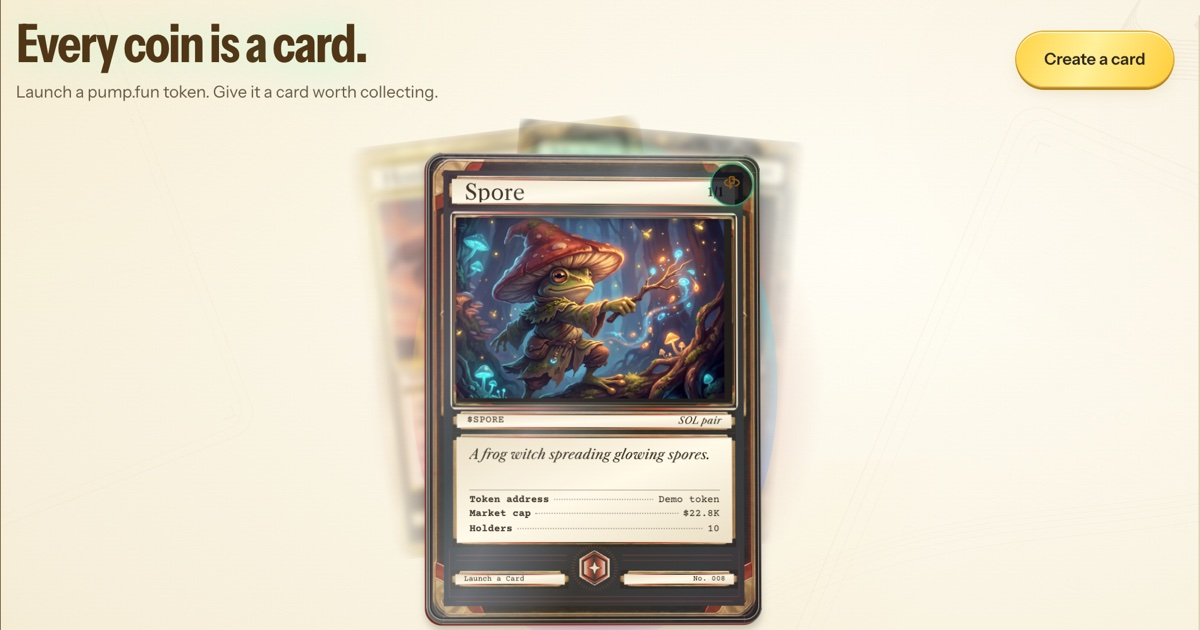
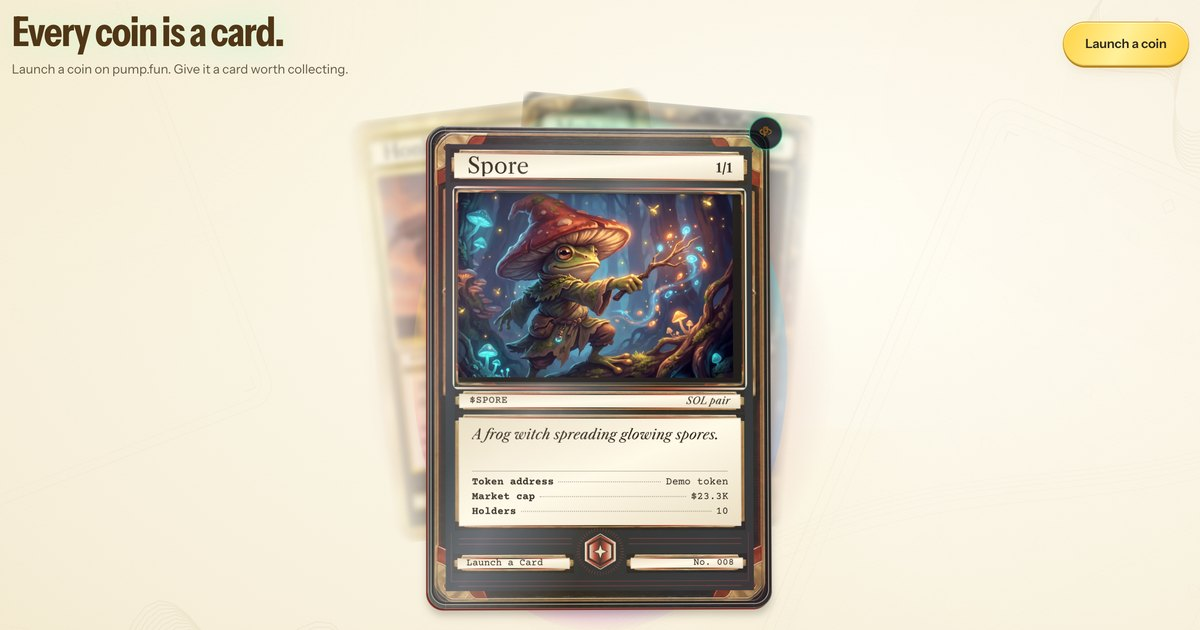
Fix demo/coin copy, defer neighbour and back plates, recapture OG calm
- coin details: 'No on-chain address in the demo.'
- creator print lore fallback matches CardPrint ('in the collection')
- portfolio: visible copy says coin (tab, empty states, meta)
- PERF-1: staged and lite card plates wait for touch/turn or load+idle; phones take the 320w copy
- generated backs wait until they can be seen (touch, turn, back side, or idle+on screen when not calm); phones take back-320
- OG image recaptured from the home hero with calm motion

diff --git a/app/src/components/carddex/GeneratedCardArt.tsx b/app/src/components/carddex/GeneratedCardArt.tsx
@@ -36,36 +36,77 @@ export function GeneratedCardFinish({ cardTemplate }: { cardTemplate?: string })
   return <div className="cdx-generated-finish" aria-hidden><i className="cdx-generated-finish__spectrum" /><i className="cdx-generated-finish__glint" /></div>;
 }
 
+/** Phones (the site's 767px breakpoint) take the 320px copy of a hidden or deferred plate, whatever their pixel ratio. */
+export function phoneCopy() {
+  return typeof window !== "undefined" && typeof window.matchMedia === "function" && window.matchMedia("(max-width: 767px)").matches;
+}
+
+/**
+ * Wait to fetch a plate the visitor cannot see yet (PERF-1). It loads on the first touch, key or focus on its card,
+ * when the card starts turning or shows its back, or (when `idle` allows) once the page has loaded and gone idle
+ * with the card on screen. Before then the img is not rendered at all, so nothing is queued.
+ */
+export function useDeferredPlate(ref: RefObject<HTMLElement | null>, start: boolean, idle: () => boolean) {
+  const [wanted, setWanted] = useState(start);
+  useEffect(() => {
+    if (wanted) return;
+    const want = () => setWanted(true);
+    const scene = ref.current?.closest<HTMLElement>(".mdx-card3d") ?? null;
+    const intent = ["pointerdown", "keydown", "focusin"] as const;
+    for (const t of intent) scene?.addEventListener(t, want, { once: true, passive: true });
+    const turned = () => {
+      const state = scene?.dataset.state ?? "";
+      if (scene?.dataset.side === "back" || /\b(turning|dragging|held)\b/.test(state)) want();
+    };
+    const watch = scene ? new MutationObserver(turned) : null;
+    watch?.observe(scene!, { attributes: true, attributeFilter: ["data-side", "data-state"] });
+    turned();
+    const ric = typeof window.requestIdleCallback === "function";
+    let handle: number | undefined;
+    // Both must hold, in either order: the page has gone idle and the card is on screen.
+    let seen = !scene;
+    let rested = false;
+    const check = () => { if (seen && rested && idle()) want(); };
+    const view = scene && typeof IntersectionObserver === "function" ? new IntersectionObserver((rows) => { seen = rows.some((r) => r.isIntersecting); check(); }) : null;
+    if (view && scene) view.observe(scene); else seen = true;
+    const go = () => {
+      const fire = () => { rested = true; check(); };
+      handle = ric ? window.requestIdleCallback(fire, { timeout: 3000 }) : globalThis.setTimeout(fire, 600) as unknown as number;
+    };
+    if (document.readyState === "complete") go();
+    else window.addEventListener("load", go, { once: true });
+    return () => {
+      for (const t of intent) scene?.removeEventListener(t, want);
+      watch?.disconnect();
+      view?.disconnect();
+      window.removeEventListener("load", go);
+      if (handle !== undefined) { if (ric) window.cancelIdleCallback(handle); else clearTimeout(handle); }
+    };
+  }, [wanted, ref, idle]);
+  return wanted;
+}
+
+/** A back turns into view by itself only where the card moves on its own; under calm it waits for the visitor. */
+const backIdle = () => typeof document !== "undefined" && document.documentElement.dataset.motion !== "calm";
+
 /** A verified wordless reverse replaces the native engraving after decode; errors retain the native back. */
 export function GeneratedCardReverse({ cardTemplate, eager = false, sizes, children }: { cardTemplate?: string; eager?: boolean; sizes?: string; children: ReactNode }) {
   const assets = generatedCardAssets(cardTemplate);
   const source = assets.back ?? null;
   const ref = useRef<HTMLImageElement>(null);
+  const box = useRef<HTMLDivElement>(null);
   const image = useReadyImage(ref, source);
-  // A back that starts face down waits for the page to load and go idle (PERF-1): the native back shows until then,
-  // so the faces, CSS and scripts never queue behind it.
-  const [wanted, setWanted] = useState(eager);
-  useEffect(() => {
-    if (wanted || !source) return;
-    const ric = typeof window.requestIdleCallback === "function";
-    let idle: number | undefined;
-    const go = () => {
-      idle = ric ? window.requestIdleCallback(() => setWanted(true), { timeout: 3000 }) : globalThis.setTimeout(() => setWanted(true), 600) as unknown as number;
-    };
-    if (document.readyState === "complete") go();
-    else window.addEventListener("load", go, { once: true });
-    return () => {
-      window.removeEventListener("load", go);
-      if (idle !== undefined) { if (ric) window.cancelIdleCallback(idle); else clearTimeout(idle); }
-    };
-  }, [wanted, source]);
+  // A back that starts face down waits until it can be seen (useDeferredPlate): the native back shows until then.
+  const wanted = useDeferredPlate(box, eager, backIdle) || eager;
   if (!source) return <>{children}</>;
-  return <div className="cdx-generated-reverse" data-generated-back-ready={image.ready ? "" : undefined}>
+  // Rendered only after mount (wanted), so the phone choice never differs from the server markup.
+  const small = !!assets.back320 && phoneCopy();
+  return <div ref={box} className="cdx-generated-reverse" data-generated-back-ready={image.ready ? "" : undefined}>
     {!image.ready ? children : null}
-    {!wanted ? null : <>{/* A hidden back loads lazily at its laid-out width (sizes "auto": the 320px copy for a small card), so it is
-        never preloaded or fetched at full size ahead of the faces. A back shown face up (eager) takes the
-        card's own sizes, since "auto" is only valid on a lazy image. */}
-    <img ref={ref} src={source} srcSet={assets.back320 ? `${assets.back320} 320w, ${source} 1260w` : undefined} sizes={assets.back320 ? (eager ? sizes ?? "(max-width: 767px) 72vw, 400px" : "auto, (max-width: 767px) 72vw, 400px") : undefined} alt="" hidden={image.failed} draggable={false} loading={eager ? "eager" : "lazy"} decoding="async" fetchPriority={eager ? undefined : "low"} onLoad={image.onLoad} onError={image.onError} /></>}
+    {!wanted ? null : <>{/* A hidden back loads lazily at its laid-out width (sizes "auto"), so it is never preloaded
+        or fetched at full size ahead of the faces; phones take the 320px copy outright. A back shown face up
+        (eager) takes the card's own sizes, since "auto" is only valid on a lazy image. */}
+    <img ref={ref} src={small ? assets.back320 : source} srcSet={assets.back320 && !small ? `${assets.back320} 320w, ${source} 1260w` : undefined} sizes={assets.back320 && !small ? (eager ? sizes ?? "(max-width: 767px) 72vw, 400px" : "auto, (max-width: 767px) 72vw, 400px") : undefined} alt="" hidden={image.failed} draggable={false} loading={eager ? "eager" : "lazy"} decoding="async" fetchPriority={eager ? undefined : "low"} onLoad={image.onLoad} onError={image.onError} /></>}
   </div>;
 }
 

diff --git a/app/src/routes/portfolio.tsx b/app/src/routes/portfolio.tsx
@@ -32,7 +32,7 @@ export const Route = createFileRoute("/portfolio")({
   head: () => pageHead({
     path: "/portfolio",
     title: "Your collection | Launch a Card",
-    description: "Your tokens, your one-of-one NFT cards and your quote balances on Launch a Card.",
+    description: "Your coins, your one-of-one NFT cards and your quote balances on Launch a Card.",
     noindex: NOINDEX_PORTFOLIO,
   }),
   component: Portfolio,
@@ -118,11 +118,11 @@ function Collection({ me }: { me: NonNullable<Me> }) {
         <div className="min-w-0"><dt className="mdx-micro truncate">NFT cards</dt><dd className="mt-1"><Num size="lg">{data?.deeds.length ?? 0}</Num></dd></div>
       </dl>
       <div className="flex flex-none items-center justify-between gap-4">
-        <Tabs panels label="Portfolio sections" value={view} onChange={(next) => void navigate({ search: { tab: next === "cards" ? "cards" : next === "balances" ? "balances" : undefined }, replace: true, resetScroll: false })} options={[{ value: "coins", label: "Tokens", count: data?.holdings.length }, { value: "cards", label: "NFT cards", count: data?.deeds.length }, {value:"balances",label:"Balances"}]} />
+        <Tabs panels label="Portfolio sections" value={view} onChange={(next) => void navigate({ search: { tab: next === "cards" ? "cards" : next === "balances" ? "balances" : undefined }, replace: true, resetScroll: false })} options={[{ value: "coins", label: "Coins", count: data?.holdings.length }, { value: "cards", label: "NFT cards", count: data?.deeds.length }, {value:"balances",label:"Balances"}]} />
 
       </div>
       <div ref={grid.ref} className="cdx-portfolio__rows" style={{"--page-columns":grid.columns,"--page-rows":grid.rows} as CSSProperties}>
-        {!data ? <div className="grid gap-3" aria-busy="true" aria-label="Loading your collection">{[0, 1, 2].map((n) => <Skeleton key={n} className="h-20 w-full rounded-panel" />)}</div> : view === "balances" ? <dl className="cdx-balance-grid" aria-label="Demo quote balances">{balances.slice(from,from+perPage).map(([key,value])=><div key={key}><dt>{getPairAsset(key).symbol}</dt><dd>{quoteAtoms(value,key,true)}</dd><span className="text-[12px] text-slate">Held value: {quoteAtoms(data.totals.holdingsValueByQuote[key]??0,key,true)}</span></div>)}</dl> : view === "cards" ? data.deeds.length ? <Cards rows={data.deeds.slice(from, from + perPage)} /> : <EmptyState title="Your first card awaits" body="Launch a token and choose the premium design for its one-of-one card." action={<ButtonLink to="/launch">Launch a token</ButtonLink>} /> : data.holdings.length ? <Holdings rows={data.holdings.slice(from, from + perPage)} /> : <EmptyState title="No tokens yet" body="Discover a token to trade, or launch one of your own." action={<ButtonLink to="/discover">Discover tokens</ButtonLink>} />}
+        {!data ? <div className="grid gap-3" aria-busy="true" aria-label="Loading your collection">{[0, 1, 2].map((n) => <Skeleton key={n} className="h-20 w-full rounded-panel" />)}</div> : view === "balances" ? <dl className="cdx-balance-grid" aria-label="Demo quote balances">{balances.slice(from,from+perPage).map(([key,value])=><div key={key}><dt>{getPairAsset(key).symbol}</dt><dd>{quoteAtoms(value,key,true)}</dd><span className="text-[12px] text-slate">Held value: {quoteAtoms(data.totals.holdingsValueByQuote[key]??0,key,true)}</span></div>)}</dl> : view === "cards" ? data.deeds.length ? <Cards rows={data.deeds.slice(from, from + perPage)} /> : <EmptyState title="Your first card awaits" body="Launch a coin and choose the premium design for its one-of-one card." action={<ButtonLink to="/launch">Launch a coin</ButtonLink>} /> : data.holdings.length ? <Holdings rows={data.holdings.slice(from, from + perPage)} /> : <EmptyState title="No coins yet" body="Discover a coin to trade, or launch one of your own." action={<ButtonLink to="/discover">Discover coins</ButtonLink>} />}
       </div>
       <PageControls page={page} pages={pages} onPage={setPage} label={view==="balances" ? "Separate demo balances" : `${rows?.length ?? 0} ${view==="cards"?"cards":"coins"}`} />
     </PageFrame>

diff --git a/app/src/components/carddex/CanonicalCardSkin.tsx b/app/src/components/carddex/CanonicalCardSkin.tsx
@@ -2,7 +2,7 @@ import { useId, useRef } from "react";
 import { getCardDesign } from "../../lib/carddex/designs";
 import { generatedCardAssets } from "../../lib/carddex/generated-assets";
 import { CANONICAL_CARD_LAYOUT } from "../../lib/carddex/card-template";
-import { generatedSkinSource, useReadyImage } from "./GeneratedCardArt";
+import { generatedSkinSource, phoneCopy, useDeferredPlate, useReadyImage } from "./GeneratedCardArt";
 import { defaultQuoteForDesign, getPairAsset } from "../../lib/carddex/pairs";
 
 type Box = { x:number; y:number; w:number; h:number };
@@ -23,16 +23,25 @@ function BorderSlice({source,from,to,sourceInset,targetInset}:{source:string;fro
   return <>{[0,1,2].flatMap(y=>[0,1,2].filter(x=>x!==1||y!==1).map(x=><svg key={`${x}-${y}`} x={tx[x]*1000} y={ty[y]*1000} width={(tx[x+1]-tx[x])*1000} height={(ty[y+1]-ty[y])*1000} viewBox={`${sx[x]*1000} ${sy[y]*1000} ${(sx[x+1]-sx[x])*1000} ${(sy[y+1]-sy[y])*1000}`} preserveAspectRatio="none" overflow="hidden"><use href={`#${source}`} /></svg>))}</>;
 }
 
+const stagedIdle=()=>true;
+
 /** Untouched Higgsfield pixels decorate the same permanent print grid in browser and exported NFTs. */
-export function CanonicalCardSkin({cardTemplate,quoteAssetKey,priority=false,eager=false,sizes}:{cardTemplate:string;quoteAssetKey?:string;priority?:boolean;eager?:boolean;sizes?:string}) {
+export function CanonicalCardSkin({cardTemplate,quoteAssetKey,priority=false,eager=false,lite=false,sizes}:{cardTemplate:string;quoteAssetKey?:string;priority?:boolean;eager?:boolean;lite?:boolean;sizes?:string}) {
   const id=useId().replaceAll(":", "");
   const assets=generatedCardAssets(cardTemplate);
   const imageRef=useRef<HTMLImageElement>(null);
   const image=useReadyImage(imageRef,assets.front ?? null);
+  const box=useRef<HTMLDivElement>(null);
+  // A staged slot (eager: a neighbour the card turns to next) and a lite miniature (the blurred neighbours beside
+  // the Home card) wait for the first touch or turn, or load plus idle (PERF-1), and phones take their 320px copy;
+  // the shown face and other lazy cards load as before.
+  const staged=(eager||lite)&&!priority;
+  const wanted=useDeferredPlate(box,!staged,stagedIdle)||!staged;
+  const small=staged&&!!assets.front320&&phoneCopy();
   const ready=image.ready && !!image.decodedSource && !!generatedSkinSource(cardTemplate);
   const quote=quoteAssetKey?getPairAsset(quoteAssetKey):defaultQuoteForDesign(cardTemplate);
-  return <div className="cdx-canonical-skin" data-market-finish={quote.kind} data-card-skin-ready={ready?"":undefined} data-card-skin-source={ready?cardTemplate:undefined} aria-hidden>
-    {assets.front?<img ref={imageRef} className="cdx-canonical-skin__loader" src={assets.front} srcSet={assets.front320?`${assets.front320} 320w, ${assets.front} 1260w`:undefined} sizes={sizes??(priority||eager?"300px":"auto, 300px")} alt="" draggable={false} loading={priority||eager?"eager":"lazy"} decoding="async" fetchPriority={priority?"high":eager?"low":undefined} onLoad={image.onLoad} onError={image.onError} />:null}
+  return <div ref={box} className="cdx-canonical-skin" data-market-finish={quote.kind} data-card-skin-ready={ready?"":undefined} data-card-skin-source={ready?cardTemplate:undefined} aria-hidden>
+    {assets.front&&wanted?<img ref={imageRef} className="cdx-canonical-skin__loader" src={small?assets.front320:assets.front} srcSet={assets.front320&&!small?`${assets.front320} 320w, ${assets.front} 1260w`:undefined} sizes={assets.front320&&!small?sizes??(priority||eager?"300px":"auto, 300px"):undefined} alt="" draggable={false} loading={priority||eager?"eager":"lazy"} decoding="async" fetchPriority={priority?"high":eager?"low":undefined} onLoad={image.onLoad} onError={image.onError} />:null}
     <CanonicalSkinSurface cardTemplate={cardTemplate} quoteAssetKey={quoteAssetKey} sourceUri={ready?image.decodedSource:undefined} id={id} />
   </div>;
 }

diff --git a/app/src/components/carddex/CanonicalCardFace.tsx b/app/src/components/carddex/CanonicalCardFace.tsx
@@ -24,7 +24,7 @@ export function CanonicalCardFace({ card, design, priority = false, eager = fals
     "--accent": dark ? "#e2f4f0" : "#30251a", "--card-radius": "5.04% / 3.61%", aspectRatio: "63 / 88", ...style,
   } as CSSProperties;
   return <div className={`mdx-card cdx-canonical-card ${compact ? "mdx-card--compact" : ""} ${className}`} data-card-template={design.key} data-content-template={CANONICAL_CARD_TEMPLATE} data-card-layout={CANONICAL_CARD_TEMPLATE} data-finish={design.finish} data-carddex-premium="" style={vars} role={label ? "img" : undefined} aria-label={label}>
-    <CanonicalCardSkin cardTemplate={design.key} quoteAssetKey={card.quoteAssetKey} priority={priority} eager={eager} sizes={sizes} />
+    <CanonicalCardSkin cardTemplate={design.key} quoteAssetKey={card.quoteAssetKey} priority={priority} eager={eager} lite={lite} sizes={sizes} />
     <div className="mdx-card__art" style={boxStyle(CANONICAL_CARD_LAYOUT.window)} data-card-slot="art">
       {card.image ? <img ref={art} src={source?.card ?? card.image} srcSet={source?.srcSet} sizes={source ? sizes ?? (priority || eager ? "300px" : "auto, 300px") : undefined} alt="" hidden={failure.failed} draggable={false} loading={priority || eager ? "eager" : "lazy"} decoding="async" fetchPriority={priority ? "high" : eager ? "low" : undefined} onError={failure.onError} onLoad={failure.onLoad} /> : null}
       {!card.image || failure.failed ? <div className="cdx-canonical-card__art-fallback">{failure.failed ? "Artwork unavailable" : "Your token art"}</div> : null}

diff --git a/app/src/components/mintdex/coin.tsx b/app/src/components/mintdex/coin.tsx
@@ -496,7 +496,7 @@ export function CoinDetails({
       <CaptionTop coin={coin} className="mb-2 hidden lg:block" />
       <DesignProgress coin={coin} className="max-lg:hidden" />
       {/* In test mode the address is a test key that was never deployed (decision C6): the row says so. */}
-      {coin.mintAddress ? <Address address={coin.mintAddress} row label className="mt-3 max-lg:mt-0" /> : <p className="mt-3 text-[12px] leading-5 text-slate max-lg:mt-0">No on-chain address in this local demo.</p>}
+      {coin.mintAddress ? <Address address={coin.mintAddress} row label className="mt-3 max-lg:mt-0" /> : <p className="mt-3 text-[12px] leading-5 text-slate max-lg:mt-0">No on-chain address in the demo.</p>}
       {coin.graduated && (
         <p className="mt-2 text-[13px] font-medium leading-[1.45] text-ink max-lg:mt-0">
           {MODE_COPY.curveComplete}

diff --git a/app/src/lib/carddex/live/creator-print.tsx b/app/src/lib/carddex/live/creator-print.tsx
@@ -20,7 +20,7 @@ export function creatorCardSvg(card:CardData,tokenMint:string,creator:string,art
   const titleSize=80.64,typeSize=36.54,loreSize=49.77,rowSize=38.43,footerSize=28.98;
   const left=d.x+47.88,right=d.x+d.w-47.88;
   const firstRow=d.y+d.h-30.24-(3*44.1945+2*8.82);
-  const description=lines(card.lore||"A fresh coin in the dex. Its story is still being written.",right-left,loreSize);
+  const description=lines(card.lore||"A fresh coin in the collection. Its story is still being written.",right-left,loreSize);
   const quote=getPairAsset(card.quoteAssetKey||"sol");
   const rows=[["Token address",`${tokenMint.slice(0,5)}...${tokenMint.slice(-4)}`],["Market cap","At creation"],["Holders","0"]];
   return `<svg xmlns="http://www.w3.org/2000/svg" width="1260" height="1760" viewBox="0 0 1260 1760">
